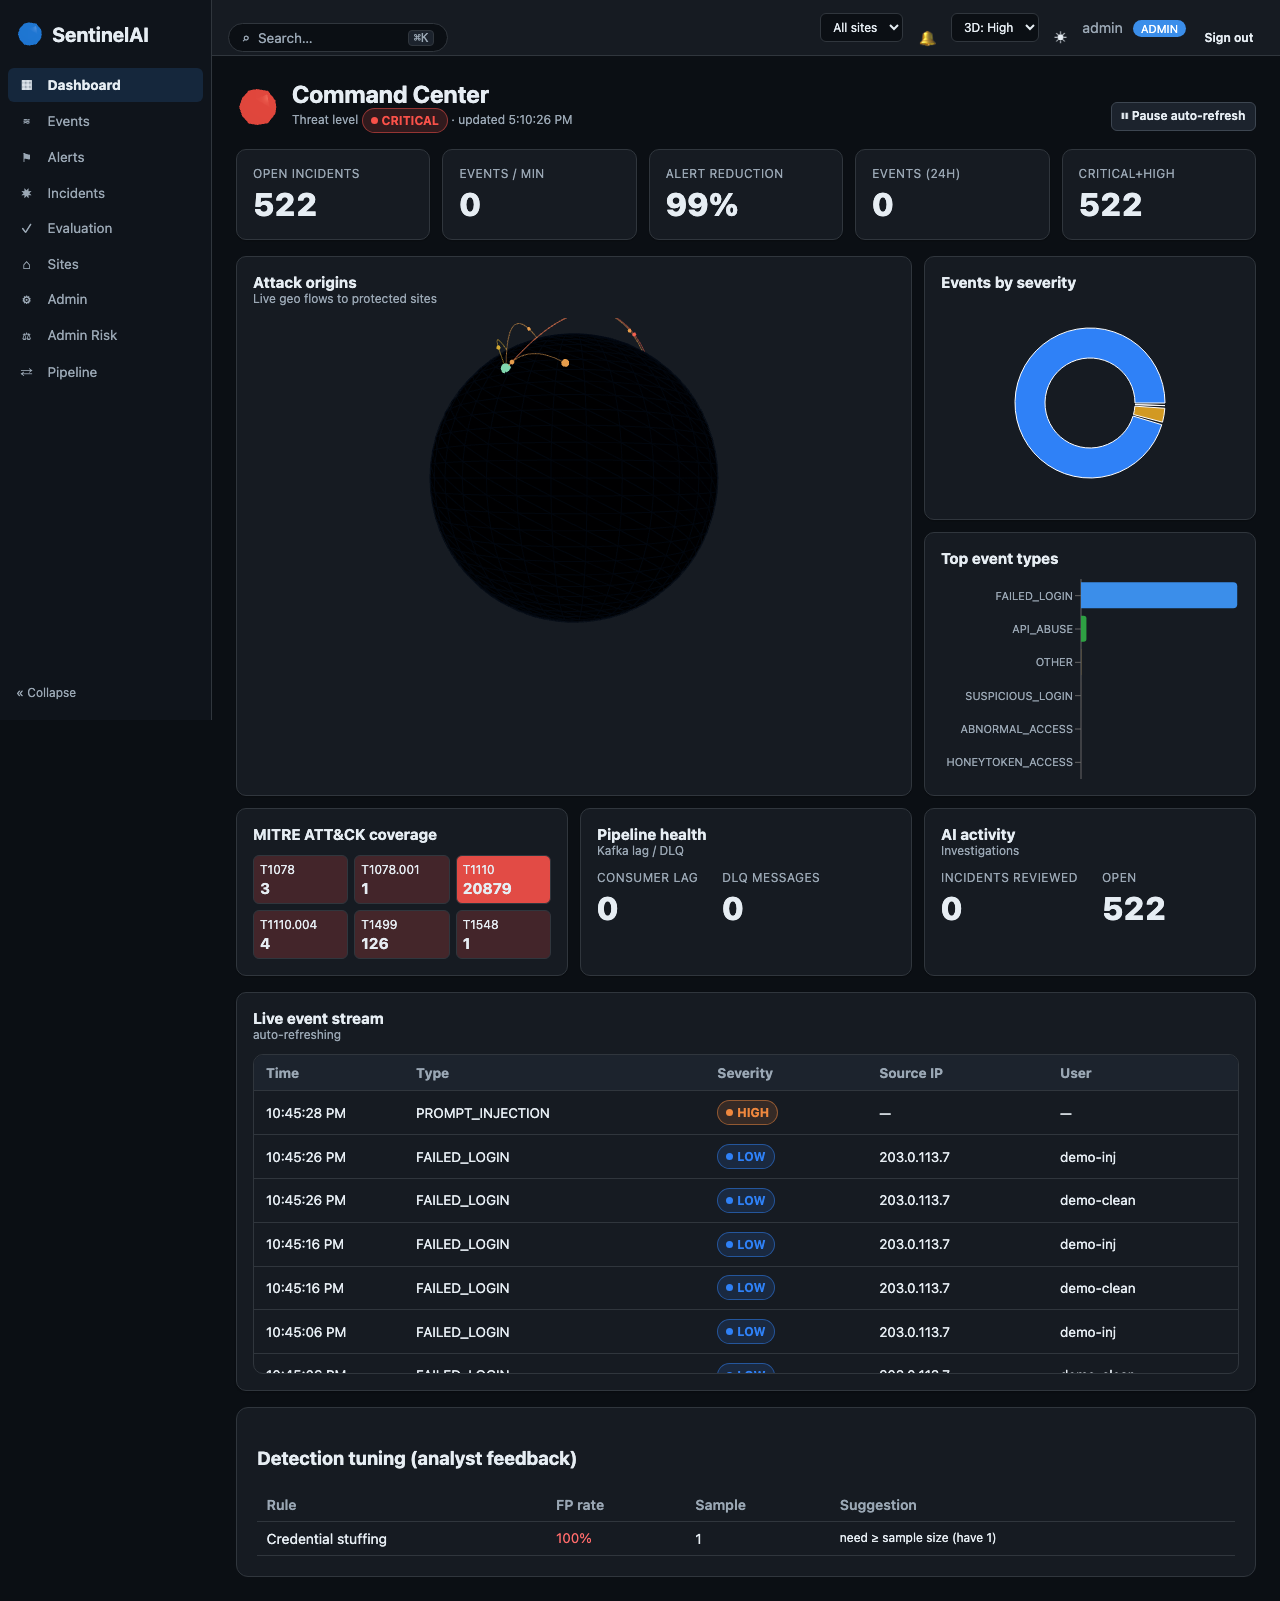
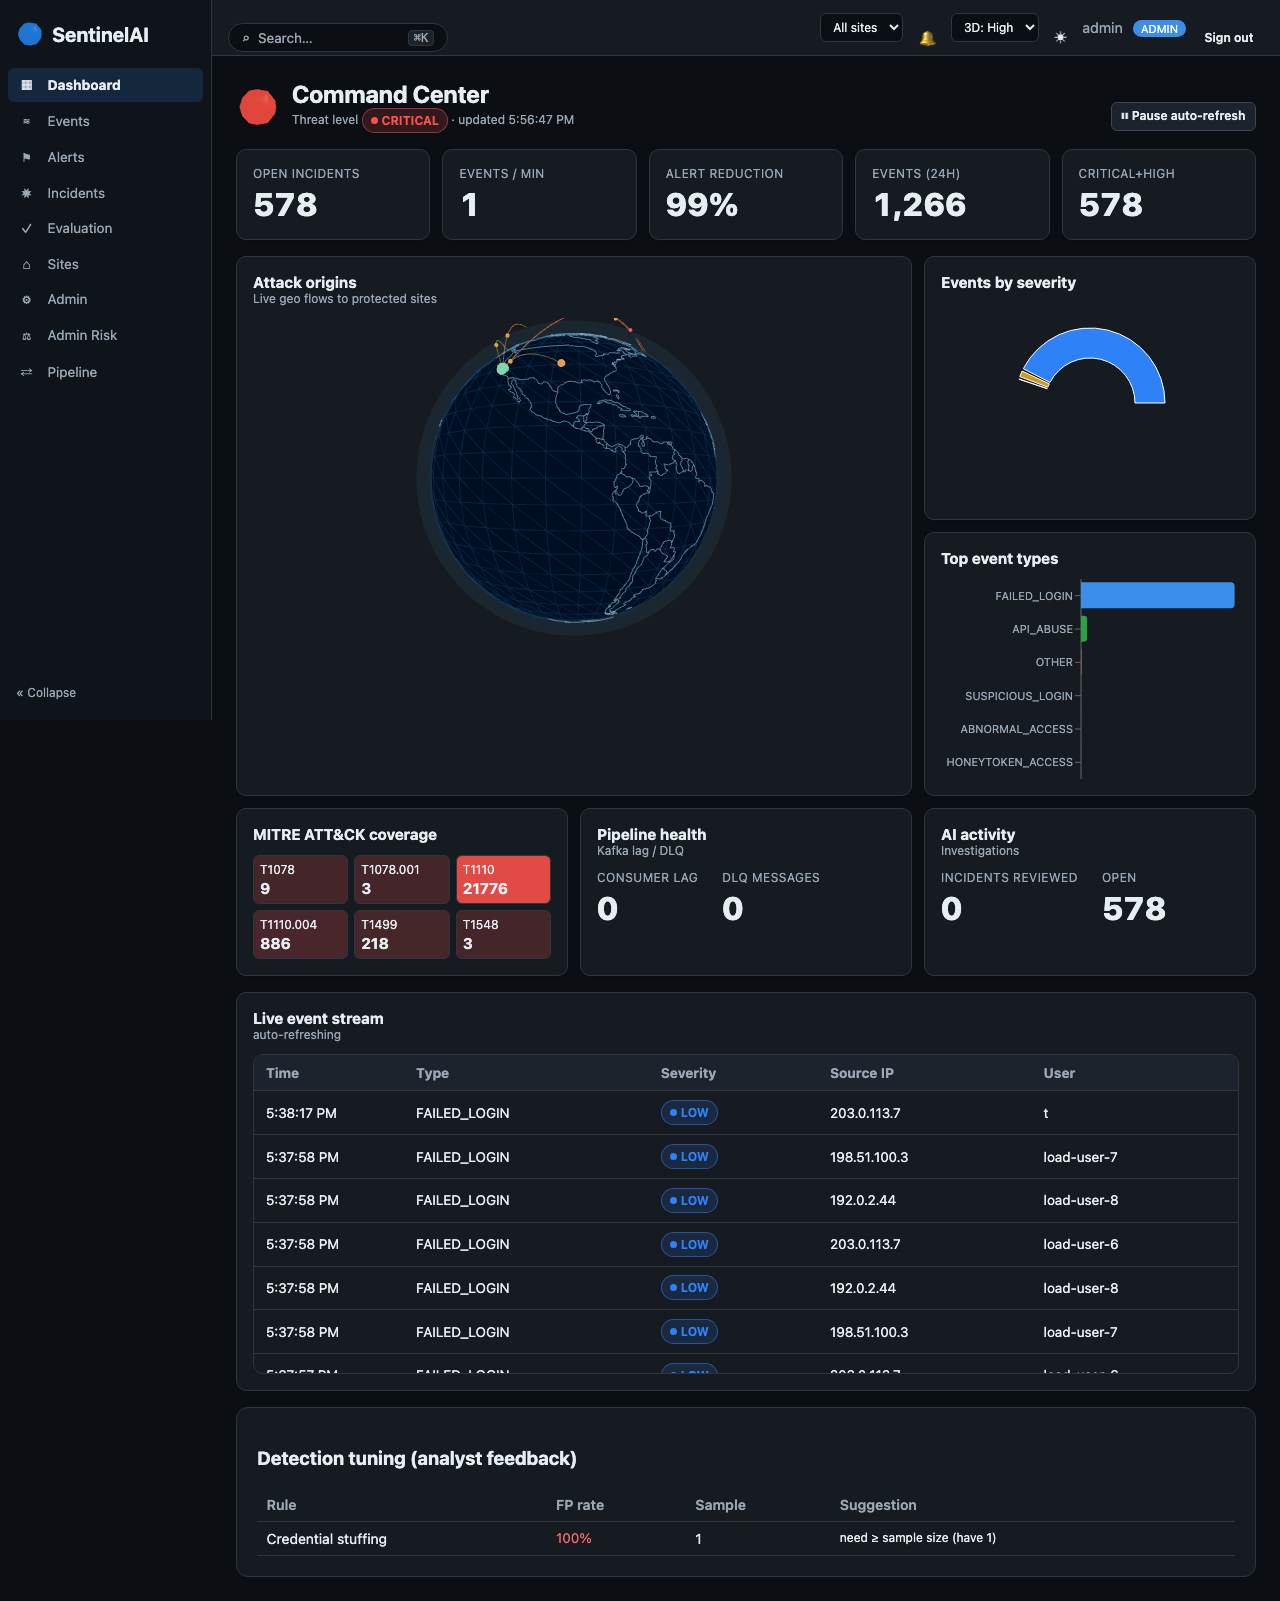
feat(ui): globe country borders + cross-page visual polish
- AttackGlobe: render real country outlines (world-atlas countries-110m +
  topojson, projected onto the sphere) over a lit ocean sphere with a faint
  graticule and atmosphere glow — reads as a proper attack-map globe instead
  of a dark wireframe ball. Country data is bundled into the lazy globe chunk
  (not the main bundle).
- Cross-page polish: modernize the shared legacy styles (panels/tiles get
  elevation + hover, data tables get a sticky header + row hover + rounded
  container, inputs/selects + bare buttons restyled with design tokens, page
  headings sized from tokens) so Events/Alerts/Incidents/Admin/etc. match the
  command-center look. Also fixes a latent bug where the global `button`
  margin leaked onto the new UI buttons.

Build green; Vitest 10/10.

diff --git a/frontend/src/styles.css b/frontend/src/styles.css
@@ -62,23 +62,33 @@ body {
 }
 
 .auth-card button,
-button {
-  margin-top: 1.25rem;
-  padding: 0.6rem 0.75rem;
-  border-radius: 8px;
-  border: none;
-  background: var(--accent);
-  color: white;
+/* Legacy bare <button> (not the .ui-btn component, which styles itself). */
+button:not([class]) {
+  padding: 0.5rem 0.9rem;
+  border-radius: var(--radius-sm, 6px);
+  border: 1px solid var(--accent-strong, var(--accent));
+  background: var(--accent-strong, var(--accent));
+  color: var(--accent-contrast, #fff);
   font-weight: 600;
   cursor: pointer;
+  transition: background 120ms ease, transform 120ms ease;
 }
+button:not([class]):hover { filter: brightness(1.08); }
+button:not([class]):active { transform: translateY(1px); }
 
 button.ghost {
   margin: 0;
-  background: transparent;
+  padding: 0.45rem 0.8rem;
+  border-radius: var(--radius-sm, 6px);
+  background: var(--panel-2, transparent);
   border: 1px solid var(--border);
   color: var(--text);
+  font-weight: 600;
+  cursor: pointer;
 }
+button.ghost:hover { background: var(--panel); }
+
+.auth-card button { margin-top: 1.25rem; }
 
 .hint {
   margin-top: 1rem;
@@ -125,12 +135,15 @@ button.ghost {
 .tile {
   background: var(--panel);
   border: 1px solid var(--border);
-  border-radius: 12px;
+  border-radius: var(--radius, 12px);
+  box-shadow: var(--shadow-1);
   padding: 1.25rem;
   display: flex;
   flex-direction: column;
   gap: 0.25rem;
+  transition: border-color 160ms ease, transform 160ms ease;
 }
+.tile:hover { border-color: var(--border-strong); transform: translateY(-1px); }
 
 .tile-value {
   font-size: 1.75rem;
@@ -145,9 +158,12 @@ button.ghost {
 .panel {
   background: var(--panel);
   border: 1px solid var(--border);
-  border-radius: 12px;
-  padding: 1.25rem;
+  border-radius: var(--radius, 12px);
+  box-shadow: var(--shadow-1);
+  padding: var(--sp-4, 1.25rem);
+  margin-bottom: var(--sp-4, 1rem);
 }
+.panel > h3:first-child { margin-top: 0; }
 
 .code-block {
   background: var(--bg);
@@ -246,29 +262,47 @@ button.ghost {
   align-items: center;
   margin: 0.75rem 0;
 }
-.filters input, .filters select {
-  padding: 0.4rem 0.5rem;
-  border-radius: 8px;
+.filters input, .filters select,
+.content input:not([type="range"]):not([class]), .content select:not([class]) {
+  padding: 0.45rem 0.6rem;
+  border-radius: var(--radius-sm, 8px);
   border: 1px solid var(--border);
-  background: var(--bg);
+  background: var(--bg-elev, var(--bg));
   color: var(--text);
+  font: inherit;
+  font-size: var(--fs-sm, 0.88rem);
 }
+.filters input:hover, .filters select:hover { border-color: var(--border-strong); }
 .filters label { font-size: 0.85rem; color: var(--muted); }
+
+/* Page headings */
+.content h2 { font-size: var(--fs-xl, 1.5rem); margin: 0 0 var(--sp-4, 1rem); }
+.content h3 { font-size: var(--fs-lg, 1.15rem); }
 
 .data-table {
   width: 100%;
   border-collapse: collapse;
   font-size: 0.88rem;
+  overflow: hidden;
+  border-radius: var(--radius-sm, 8px);
 }
 .data-table th, .data-table td {
   text-align: left;
-  padding: 0.5rem 0.6rem;
+  padding: 0.6rem 0.75rem;
   border-bottom: 1px solid var(--border);
   vertical-align: top;
 }
-.data-table th { color: var(--muted); font-weight: 600; }
+.data-table thead th {
+  position: sticky;
+  top: 0;
+  background: var(--panel-2, var(--panel));
+  color: var(--muted);
+  font-weight: 700;
+  z-index: 1;
+}
+.data-table tbody tr:hover { background: var(--panel-2, var(--panel)); }
 tr.clickable { cursor: pointer; }
-tr.clickable:hover { background: var(--panel); }
+tr.clickable:hover { background: var(--panel-2, var(--panel)); }
 
 .state-box { padding: 1.25rem; color: var(--text); }
 .small { font-size: 0.75rem; }

diff --git a/frontend/src/three/AttackGlobe.jsx b/frontend/src/three/AttackGlobe.jsx
@@ -4,6 +4,8 @@ import { useMemo, useRef, useState } from 'react';
 import * as THREE from 'three';
 import { pixelRatioCap } from './webgl.js';
 import { HOME, SEV_HEX, coordsFor, severityForType } from './geo.js';
+import countriesTopo from 'world-atlas/countries-110m.json';
+import { mesh as topoMesh } from 'topojson-client';
 
 const R = 1.4;
 const MAX_ARCS = 40;
@@ -16,6 +18,30 @@ function latLonToVec3(lat, lon, radius) {
     -radius * Math.sin(phi) * Math.cos(theta),
     radius * Math.cos(phi),
     radius * Math.sin(phi) * Math.sin(theta),
+  );
+}
+
+/** Every country border, drawn as line segments projected onto the sphere (all countries shown). */
+function CountryBorders() {
+  const positions = useMemo(() => {
+    const borders = topoMesh(countriesTopo, countriesTopo.objects.countries); // MultiLineString
+    const pts = [];
+    for (const line of borders.coordinates) {
+      for (let i = 0; i < line.length - 1; i++) {
+        const a = latLonToVec3(line[i][1], line[i][0], R * 1.002);
+        const b = latLonToVec3(line[i + 1][1], line[i + 1][0], R * 1.002);
+        pts.push(a.x, a.y, a.z, b.x, b.y, b.z);
+      }
+    }
+    return new Float32Array(pts);
+  }, []);
+  return (
+    <lineSegments>
+      <bufferGeometry>
+        <bufferAttribute attach="attributes-position" array={positions} count={positions.length / 3} itemSize={3} />
+      </bufferGeometry>
+      <lineBasicMaterial color="#6fc3ff" transparent opacity={0.55} />
+    </lineSegments>
   );
 }
 
@@ -81,16 +107,26 @@ function Globe({ flows }) {
 
   return (
     <group ref={group}>
+      {/* Solid ocean sphere (lit so it reads as a globe, not a black ball). */}
       <mesh>
-        <sphereGeometry args={[R, 36, 36]} />
-        <meshStandardMaterial color="#12202f" emissive="#0a141f" wireframe opacity={0.5} transparent />
+        <sphereGeometry args={[R * 0.99, 48, 48]} />
+        <meshStandardMaterial color="#13344f" emissive="#0b2238" emissiveIntensity={0.6}
+          metalness={0.2} roughness={0.75} />
       </mesh>
+      {/* Faint lat/long graticule under the country borders. */}
       <mesh>
-        <sphereGeometry args={[R * 0.995, 36, 36]} />
-        <meshStandardMaterial color="#0d1b27" />
+        <sphereGeometry args={[R, 36, 24]} />
+        <meshBasicMaterial color="#2f6b9e" wireframe transparent opacity={0.12} />
+      </mesh>
+      {/* Real country borders. */}
+      <CountryBorders />
+      {/* Subtle atmosphere glow. */}
+      <mesh>
+        <sphereGeometry args={[R * 1.08, 48, 48]} />
+        <meshBasicMaterial color="#3b8eea" transparent opacity={0.08} side={THREE.BackSide} />
       </mesh>
       <mesh position={home}>
-        <sphereGeometry args={[0.04, 12, 12]} />
+        <sphereGeometry args={[0.05, 14, 14]} />
         <meshBasicMaterial color="#3ddc97" />
       </mesh>
       {arcs.map((a, i) => (
